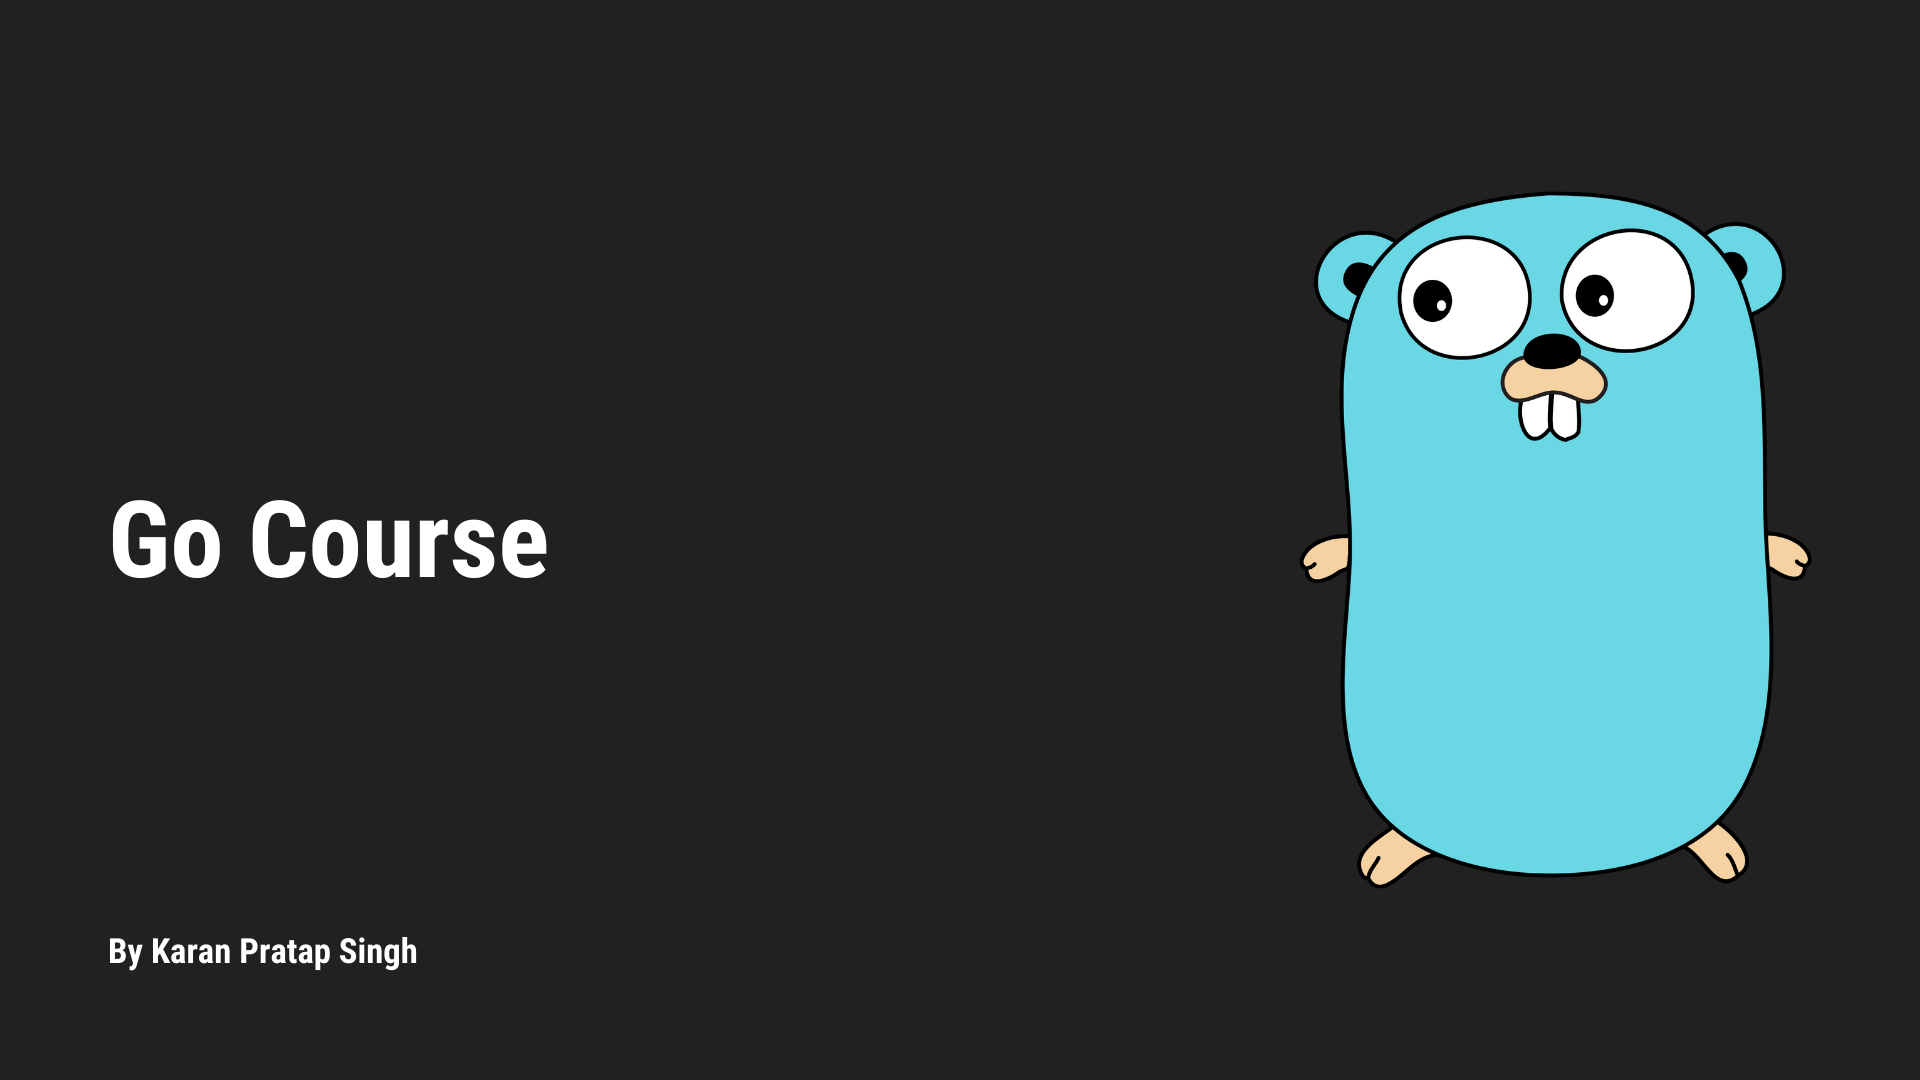
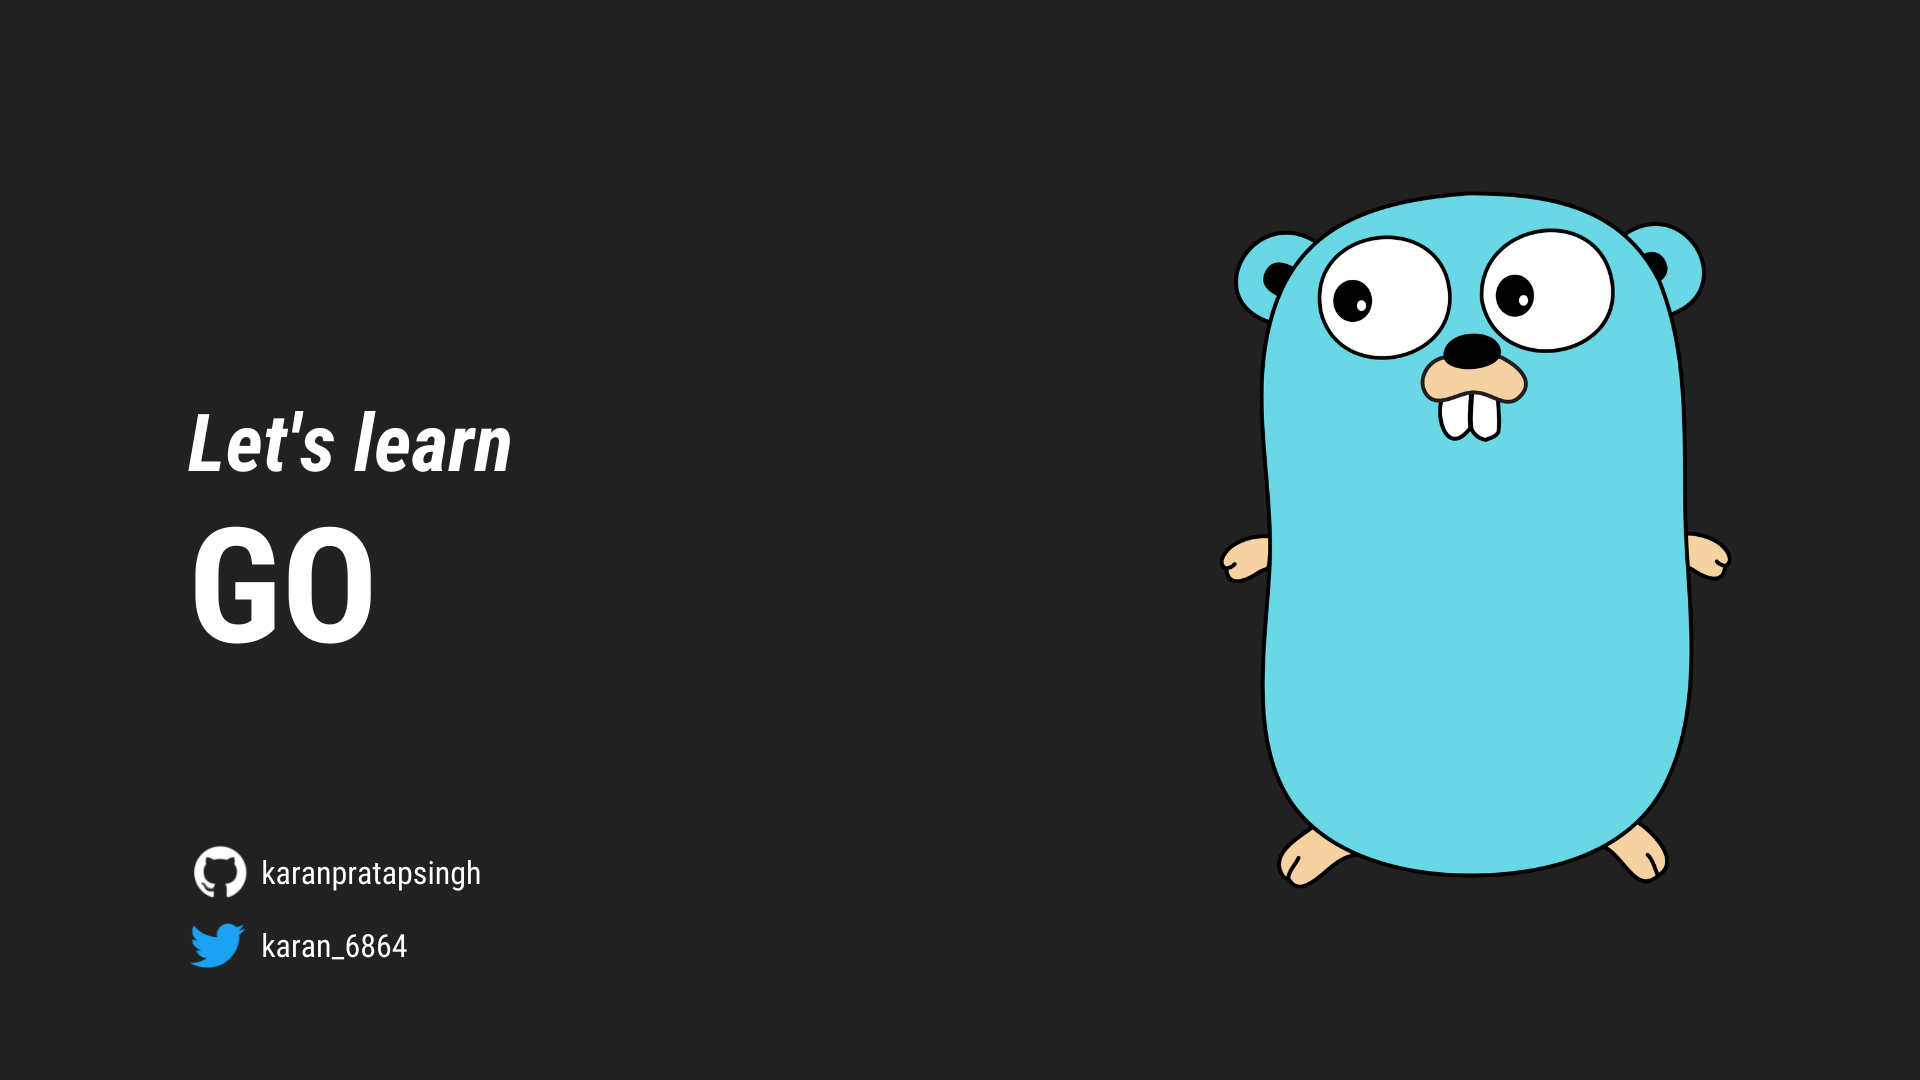
update

diff --git a/config/courses.ts b/config/courses.ts
@@ -7,9 +7,9 @@ export interface Course {
 
 export const courses: Course[] = [
   {
-    title: 'Go course',
+    title: `Let's learn Go`,
     slug: 'go',
     banner: '/static/courses/go/banner.png',
-    description: 'Learn about Go',
+    description: `Let's master the fundamentals and advanced features of the Go programming language`,
   },
 ];
